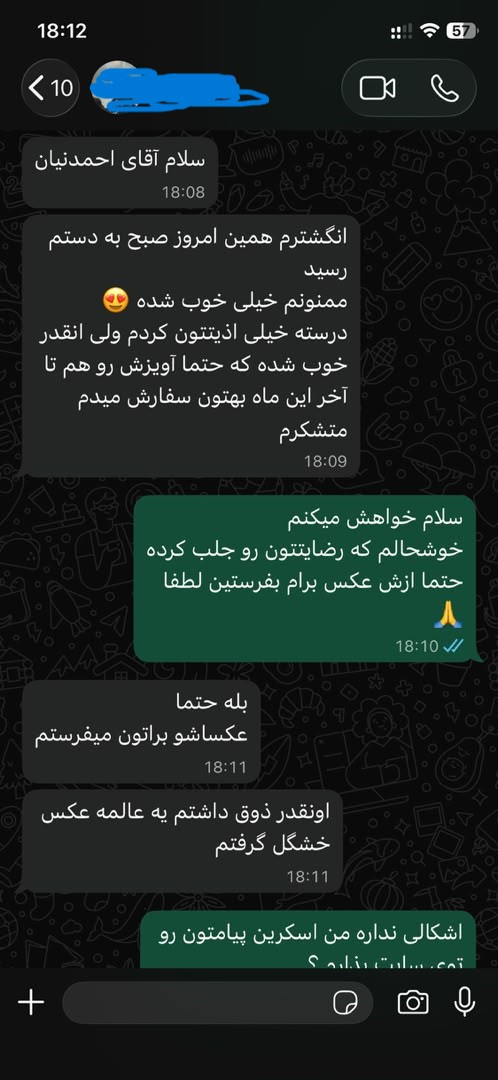
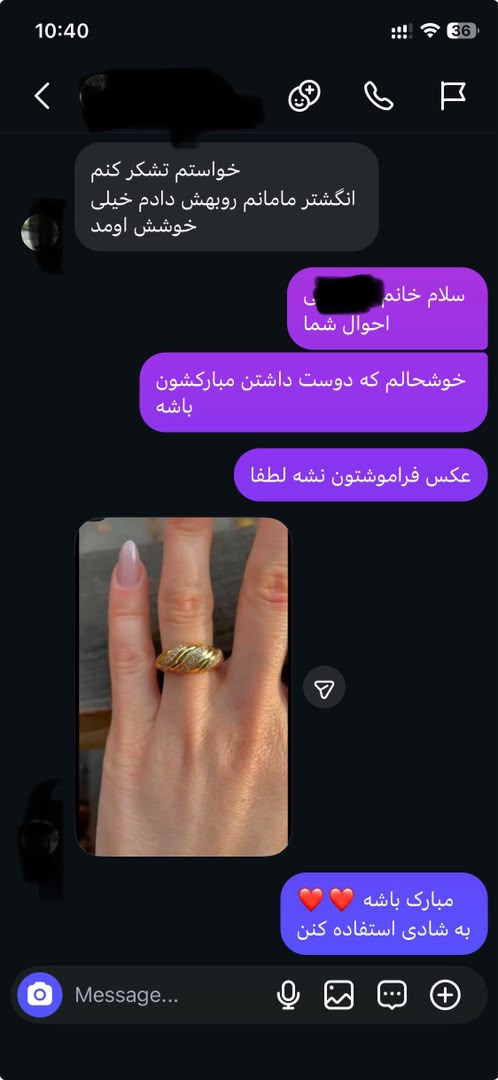
feat: instagram portfolio button, whatsapp help box, about-brand image reposition

diff --git a/src/components/about-brand.tsx b/src/components/about-brand.tsx
@@ -24,11 +24,11 @@ export default function AboutBrand({ locale }: Props) {
             label: "طراحی، مدلسازی، تولید",
             title: "طراحی  جواهرات\nبا دقتی فراتر از استانداردها",
             description:
-                "استودیو طراحی جواهرات AUREL خدمات تخصصی طراحی، مدلسازی سهبعدی و پرینت سه بعدی را برای علاقهمندان به ساخت جواهرات سفارشی، برندها، گالریها و کارگاههای طلاسازی ارائه میکند. هر پروژه با درنظر گرفتن جزئیات فنی، قابلیت ساخت و فرآیند واقعی تولید طراحی میشود تا نتیجه نهایی، دقیق، قابل اجرا و آماده تولید باشد.",
+                "استودیو طراحی جواهرات AUREL خدمات تخصصی طراحی، مدلسازی سهبعدی ، پرینت سه بعدی و ساخت را برای علاقهمندان به ساخت جواهرات سفارشی، برندها، گالریها و کارگاههای طلاسازی ارائه میکند. هر پروژه با درنظر گرفتن جزئیات فنی، قابلیت ساخت و فرآیند واقعی تولید طراحی میشود تا نتیجه نهایی، دقیق، قابل اجرا و آماده تولید باشد.",
             secondary:
                 "ترکیب خلاقیت، دقت مهندسی و تجربه عملی در ساخت جواهرات، پایه اصلی رویکرد طراحی ماست.",
             pathQuestion: "مسیر مناسب سفارش خود را انتخاب کنید.",
-            retailTag: "مشتریان نهایی",
+            retailTag: "سفارشات ساخت",
             retailTitle: "طراحی و ساخت جواهرات سفارشی",
             retailDesc: "برای افرادی که میخواهند جواهری منحصربهفرد، مطابق سلیقه خود داشته باشند.",
             tradeTag: "همصنفها و طلاسازان",
@@ -77,36 +77,75 @@ export default function AboutBrand({ locale }: Props) {
             dir={isFa ? "rtl" : "ltr"}
             className="relative overflow-visible px-5 py-16 sm:px-6 sm:py-24 lg:py-28"
         >
-            <div className="relative z-10 mx-auto grid max-w-7xl items-center gap-12 lg:grid-cols-2 lg:gap-16">
-                <Reveal>
-                    <div>
-                        <p className="mb-4 text-xs uppercase tracking-[0.3em] text-[#D4AF37] sm:text-sm">
-                            {content.label}
-                        </p>
+            {/* گرید: موبایل تکستونه (ترتیب DOM)، دسکتاپ دو ستونه */}
+            <div className="relative z-10 mx-auto grid max-w-7xl grid-cols-1 items-stretch gap-10 sm:gap-12 lg:grid-cols-2 lg:gap-x-16 lg:gap-y-10">
+                {/* ===== ۱. متن معرفی ===== */}
+                <div className="lg:col-start-1 lg:row-start-1">
+                    <Reveal>
+                        <div className="max-w-3xl">
+                            <p className="mb-4 text-xs uppercase tracking-[0.3em] text-[#D4AF37] sm:text-sm">
+                                {content.label}
+                            </p>
 
-                        {/* عنوان اصلی بخش: یک H2 واقعی برای سئو/اکسسیبیلیتی + یک لایه گرادیانی دکوری روی آن */}
-                        <div className="relative inline-block overflow-visible pt-2 sm:pt-4">
-                            <h2 className="persian-smooth text-3xl font-light leading-[1.45] text-white/0 whitespace-pre-line sm:text-5xl sm:leading-[1.55] md:text-6xl">
-                                {content.title}
-                            </h2>
-                            <h2
-                                aria-hidden="true"
-                                className="persian-smooth absolute inset-0 text-3xl font-light leading-[1.45] whitespace-pre-line bg-gradient-to-r from-white via-white to-[#D4AF37] bg-clip-text text-transparent pointer-events-none select-none overflow-visible sm:text-5xl sm:leading-[1.55] md:text-6xl"
-                            >
-                                {content.title}
-                            </h2>
+                            <div className="relative inline-block overflow-visible pt-2 sm:pt-4">
+                                <h2 className="persian-smooth text-3xl font-light leading-[1.45] text-white/0 whitespace-pre-line sm:text-5xl sm:leading-[1.55] md:text-6xl">
+                                    {content.title}
+                                </h2>
+                                <h2
+                                    aria-hidden="true"
+                                    className="persian-smooth absolute inset-0 text-3xl font-light leading-[1.45] whitespace-pre-line bg-gradient-to-r from-white via-white to-[#D4AF37] bg-clip-text text-transparent pointer-events-none select-none overflow-visible sm:text-5xl sm:leading-[1.55] md:text-6xl"
+                                >
+                                    {content.title}
+                                </h2>
+                            </div>
+
+                            <p className="mt-6 text-sm leading-7 text-white/75 sm:mt-8 sm:text-base sm:leading-8 md:text-lg">
+                                {content.description}
+                            </p>
+
+                            <p className="mt-4 text-sm leading-7 text-white/65 sm:mt-6 sm:text-base sm:leading-8">
+                                {content.secondary}
+                            </p>
                         </div>
+                    </Reveal>
+                </div>
 
-                        <p className="mt-6 text-sm leading-7 text-white/75 sm:mt-8 sm:text-base sm:leading-8 md:text-lg">
-                            {content.description}
-                        </p>
+                {/* ===== ۲. ✅ عکس — موبایل: بعد از متن / دسکتاپ: ستون راست تمامقد ===== */}
+                <div className="lg:col-start-2 lg:row-start-1 lg:row-span-3">
+                    <Reveal delay={0.15} className="lg:h-full">
+                        <div className="relative lg:h-full">
+                            <div className="absolute -inset-3 rounded-[32px] bg-[#D4AF37]/10 blur-2xl sm:-inset-4 sm:rounded-[40px]" />
 
-                        <p className="mt-4 text-sm leading-7 text-white/65 sm:mt-6 sm:text-base sm:leading-8">
-                            {content.secondary}
-                        </p>
+                            <div className="group relative h-full overflow-hidden rounded-[28px] border border-white/10 bg-black/40 backdrop-blur-md sm:rounded-[36px]">
+                                <div className="absolute inset-0 z-10 bg-gradient-to-t from-black/60 via-black/10 to-transparent" />
 
-                        {/* ✅ آمار — فشرده در موبایل */}
-                        <div className="mt-8 grid grid-cols-3 gap-2 sm:mt-12 sm:gap-4 lg:gap-6">
+                                <Image
+                                    src="/images/jewel-2.jpg"
+                                    alt={content.imageAlt}
+                                    width={1600}
+                                    height={1600}
+                                    sizes="(max-width: 1024px) 100vw, 50vw"
+                                    loading="lazy"
+                                    className="h-[640px] w-full object-cover transition-transform duration-700 group-hover:scale-105 sm:h-[440px] lg:h-full"
+                                />
+
+                                <div className="absolute bottom-4 left-4 right-4 z-20 rounded-2xl border border-white/10 bg-black/50 p-4 backdrop-blur-xl sm:bottom-6 sm:left-6 sm:right-6 sm:p-6">
+                                    <h3 className="persian-smooth text-xs uppercase tracking-[0.2em] text-[#D4AF37] sm:text-sm sm:tracking-[0.25em]">
+                                        {content.overlayTitle}
+                                    </h3>
+                                    <p className="persian-smooth mt-2 text-xs leading-6 text-gray-300 sm:mt-3 sm:text-sm sm:leading-7">
+                                        {content.overlayDesc}
+                                    </p>
+                                </div>
+                            </div>
+                        </div>
+                    </Reveal>
+                </div>
+
+                {/* ===== ۳. ✅ آمار — موبایل: بعد از عکس / دسکتاپ: ستون چپ ===== */}
+                <div className="lg:col-start-1 lg:row-start-2">
+                    <Reveal delay={0.2}>
+                        <div className="grid grid-cols-3 gap-2 sm:gap-4 lg:gap-6">
                             {content.stats.map((stat, i) => (
                                 <div
                                     key={i}
@@ -121,9 +160,13 @@ export default function AboutBrand({ locale }: Props) {
                                 </div>
                             ))}
                         </div>
+                    </Reveal>
+                </div>
 
-                        {/* ✅ انتخاب مسیر */}
-                        <div className="mt-8 sm:mt-10">
+                {/* ===== ۴. انتخاب مسیر ===== */}
+                <div className="lg:col-start-1 lg:row-start-3">
+                    <Reveal delay={0.25}>
+                        <div>
                             <div className="mb-3 flex items-center gap-3 sm:mb-4">
                                 <span className="relative flex h-2 w-2">
                                     <span className="absolute inline-flex h-full w-full animate-ping rounded-full bg-[#D4AF37] opacity-60" />
@@ -204,37 +247,8 @@ export default function AboutBrand({ locale }: Props) {
                                 </Link>
                             </div>
                         </div>
-                    </div>
-                </Reveal>
-
-                <Reveal delay={0.2}>
-                    <div className="relative">
-                        <div className="absolute -inset-3 rounded-[32px] bg-[#D4AF37]/10 blur-2xl sm:-inset-4 sm:rounded-[40px]" />
-
-                        <div className="group relative overflow-hidden rounded-[28px] border border-white/10 bg-black/40 backdrop-blur-md sm:rounded-[36px]">
-                            <div className="absolute inset-0 z-10 bg-gradient-to-t from-black/60 via-black/10 to-transparent" />
-
-                            <Image
-                                src="/images/jewel-2.jpg"
-                                alt={content.imageAlt}
-                                width={900}
-                                height={1200}
-                                sizes="(max-width: 768px) 100vw, 50vw"
-                                loading="lazy"
-                                className="h-[420px] w-full object-cover transition-transform duration-700 group-hover:scale-105 sm:h-[520px] lg:h-[650px]"
-                            />
-
-                            <div className="absolute bottom-4 left-4 right-4 z-20 rounded-2xl border border-white/10 bg-black/50 p-4 backdrop-blur-xl sm:bottom-6 sm:left-6 sm:right-6 sm:p-6">
-                                <h3 className="persian-smooth text-xs uppercase tracking-[0.2em] text-[#D4AF37] sm:text-sm sm:tracking-[0.25em]">
-                                    {content.overlayTitle}
-                                </h3>
-                                <p className="persian-smooth mt-2 text-xs leading-6 text-gray-300 sm:mt-3 sm:text-sm sm:leading-7">
-                                    {content.overlayDesc}
-                                </p>
-                            </div>
-                        </div>
-                    </div>
-                </Reveal>
+                    </Reveal>
+                </div>
             </div>
         </section>
     );

diff --git a/src/features/contact/components/contact-hero.tsx b/src/features/contact/components/contact-hero.tsx
@@ -1,3 +1,5 @@
+import Link from "next/link"
+
 type Props = {
     locale: string
 }
@@ -7,25 +9,57 @@ export function ContactHero({ locale }: Props) {
 
     return (
         <section className="hero-section relative">
-            {/* استفاده از کلاس جدید برای گرادینت که در css تعریف کردیم */}
+            {/* Background Gradient */}
             <div className="absolute inset-0 bg-hero-gradient" />
 
-            {/* پدینگ بالا حفظ شد تا مشکل رفتن زیر هدر پیش نیاید */}
-            <div className="relative container-lux text-center pt-32 pb-16 md:pt-40 md:pb-24">
+            <div className="relative container-lux pt-32 pb-16 text-center md:pt-40 md:pb-24">
                 <p className="mb-4 text-sm uppercase tracking-[0.3em] text-[var(--color-gold-studio)]">
-                    {isFa ? "استودیو طراحی جواهرات AUREL" : "AUREL Jewelry Design Studio"}
+                    {isFa
+                        ? "استودیو طراحی جواهرات AUREL"
+                        : "AUREL Jewelry Design Studio"}
                 </p>
 
-                <h1 className="mx-auto max-w-4xl text-4xl font-light leading-tight md:text-6xl text-white">
+                <h1 className="mx-auto max-w-4xl text-4xl font-light leading-tight text-white md:text-6xl">
                     {isFa
-                        ? "برای سفارش و همکاری با ما در ارتباط باشید"
-                        : "Get in Touch for Orders & Professional Collaboration"}
+                        ? "سفارش خدمات طراحی و همکاری حرفهای"
+                        : "Professional Jewelry Design Services & Collaboration"}
                 </h1>
 
-                <p className="mx-auto mt-6 max-w-2xl text-sm leading-8 text-[#e5e5e5] md:text-base">
-                    {isFa
-                        ? "برای ثبت سفارش طراحی، مدلسازی و پرینت از فرم سفارش استفاده کنید. برای اطلاعات بیشتر و مشاوره از فرم تماس با ما استفاده کنید."
-                        : "For submitting design, modeling, and printing orders, please use the order form. For more information and consultation, please use the contact form."}
+                <p className="mx-auto mt-6 max-w-3xl text-sm leading-8 text-[#e5e5e5] md:text-base">
+                    {isFa ? (
+                        <>
+                            این صفحه برای ثبت سفارش خدمات طراحی، مدلسازی سهبعدی،
+                            پرینت رزینی و همکاری با برندها، گالریها و کارگاههای
+                            طلاسازی است.
+                            <br />
+                            اگر قصد سفارش <strong>ساخت جواهرات سفارشی</strong> برای
+                            خودتان را دارید، لطفاً از{" "}
+                            <Link
+                                href="/fa/custom-order"
+                                className="font-medium text-[var(--color-gold-studio)] underline underline-offset-4 transition-opacity hover:opacity-80"
+                            >
+                                صفحه سفارش اختصاصی
+                            </Link>{" "}
+                            استفاده کنید.
+                        </>
+                    ) : (
+                        <>
+                            This page is intended for professional jewelry design,
+                            CAD modeling, resin printing, and collaboration with
+                            jewelry brands, galleries, and workshops.
+                            <br />
+                            If you would like to order a{" "}
+                            <strong>custom-made jewelry piece</strong> for
+                            yourself, please visit our{" "}
+                            <Link
+                                href="/en/custom-order"
+                                className="font-medium text-[var(--color-gold-studio)] underline underline-offset-4 transition-opacity hover:opacity-80"
+                            >
+                                Custom Jewelry Order
+                            </Link>{" "}
+                            page.
+                        </>
+                    )}
                 </p>
             </div>
         </section>

diff --git a/src/app/[locale]/custom-order/page.tsx b/src/app/[locale]/custom-order/page.tsx
@@ -2,7 +2,8 @@ import Link from "next/link";
 import Image from "next/image";
 import {
     FaWhatsapp, FaCheckCircle, FaShieldAlt, FaTruck,
-    FaPenNib, FaGem, FaMapMarkerAlt, FaAward, FaUsers
+    FaPenNib, FaGem, FaMapMarkerAlt, FaAward, FaUsers,
+    FaInstagram
 } from "react-icons/fa";
 
 export default async function CustomOrderPage({ params }: { params: Promise<{ locale: "en" | "fa" }> }) {
@@ -200,7 +201,7 @@ export default async function CustomOrderPage({ params }: { params: Promise<{ lo
             "تهران، چهارراه استانبول، پاساژ گلشن، طبقه اول، واحد ۸۱",
 
         renderTitle: "آنچه تأیید میکنید، همان چیزی است که ساخته میشود",
-        renderLabel1: "رندر سهبعدی",
+        renderLabel1: "مدل سهبعدی",
         renderLabel2: "محصول نهایی",
 
         testimonialsTitle: "تجربه مشتریان",
@@ -218,7 +219,7 @@ export default async function CustomOrderPage({ params }: { params: Promise<{ lo
             {
                 value: "رایگان",
                 title: "طراحی و مدلسازی",
-                desc: "در سفارشهای ساخت، هزینه طراحی، مدلسازی سهبعدی و پرینت رزینی بهصورت جداگانه دریافت نمیشود و در اجرت ساخت لحاظ شده است."
+                desc: "در سفارشهای ساخت، هزینه طراحی، مدلسازی سهبعدی و پرینت  بهصورت جداگانه دریافت نمیشود و در اجرت ساخت لحاظ شده است."
             },
             {
                 value: "۱۰٪",
@@ -336,12 +337,15 @@ export default async function CustomOrderPage({ params }: { params: Promise<{ lo
                             <FaWhatsapp className="text-xl" />
                             {content.btnConsult}
                         </a>
-                        <Link
-                            href={`/${locale}/portfolio`}
-                            className="rounded-full border border-white/20 px-8 py-4 text-base font-medium text-white transition-all duration-300 hover:border-[#D4AF37] hover:text-[#D4AF37]"
+                        <a
+                            href="https://www.instagram.com/aureldesignstudio"
+                            target="_blank"
+                            rel="noopener noreferrer"
+                            className="group flex items-center gap-3 rounded-full bg-[#D4AF37] px-8 py-4 text-base font-medium text-black transition-all duration-300 hover:bg-[#b5952f] hover:shadow-[0_0_20px_rgba(212,175,55,0.4)]"
                         >
+                            <FaInstagram className="text-xl" />
                             {content.btnPortfolio}
-                        </Link>
+                        </a>
                     </div>
                 </div>
             </section>

diff --git a/src/features/contact/components/order-form.tsx b/src/features/contact/components/order-form.tsx
@@ -5,6 +5,7 @@ import UploadZone from "./upload-zone"
 import { useForm } from "react-hook-form"
 import { z } from "zod"
 import { zodResolver } from "@hookform/resolvers/zod"
+import { FaWhatsapp } from "react-icons/fa"
 import { sendOrderConfirmationToCustomer, sendOrderNotificationToAdmin } from '@/lib/emailjs'
 
 type Props = {
@@ -317,7 +318,26 @@ export function OrderForm({ locale, onSuccess }: Props) {
                     </div>
                 )}
             </div>
+            {/* ✅ راهنمای ارتباط از طریق واتساپ */}
+            <div dir={isFa ? "rtl" : "ltr"} className="w-full rounded-2xl border border-[rgba(var(--gold),0.15)] bg-[rgba(var(--gold),0.02)] p-4 sm:p-5">
+                <div className="flex flex-col gap-3 sm:flex-row sm:items-center sm:gap-4">
+                    <p className="flex-1 text-sm leading-6 text-white/85">
+                        {isFa
+                            ? "اگر در پر کردن فرم یا آپلود عکس مشکلی داشتید، از طریق واتساپ با ما در ارتباط باشید."
+                            : "If you have any trouble filling out the form or uploading photos, feel free to reach out via WhatsApp."}
+                    </p>
 
+                    <a
+                        href="https://wa.me/989122987123"
+                        target="_blank"
+                        rel="noopener noreferrer"
+                        className="inline-flex shrink-0 items-center justify-center gap-2 rounded-full bg-[#25D366] px-5 py-2.5 text-sm font-medium text-white transition-all duration-300 hover:bg-[#1fb355] hover:shadow-[0_0_24px_rgba(37,211,102,0.35)]"
+                    >
+                        <FaWhatsapp className="text-lg" />
+                        <span>{isFa ? "تماس در واتساپ" : "Chat on WhatsApp"}</span>
+                    </a>
+                </div>
+            </div>
             {serverError && (
                 <div className="rounded-xl border border-red-500/30 bg-red-500/10 p-4 text-xs text-red-300 w-full">
                     {serverError}

diff --git a/src/components/luxury-collections.tsx b/src/components/luxury-collections.tsx
@@ -25,7 +25,7 @@ export default function LuxuryCollections({ locale }: Props) {
             title: "از ایده اولیه تا تولید نهایی",
 
             subtitle:
-                "استودیو طراحی جواهرات AUREL تمامی مراحل طراحی، مدلسازی، پرینت رزینی و آمادهسازی برای تولید را با استانداردهای حرفهای صنعت طلا و جواهر ارائه میکند.",
+                "استودیو طراحی جواهرات AUREL تمامی مراحل طراحی، مدلسازی، پرینت سه بعدی و آمادهسازی برای تولید را با استانداردهای حرفهای صنعت طلا و جواهر ارائه میکند.",
 
             items: [
                 {
